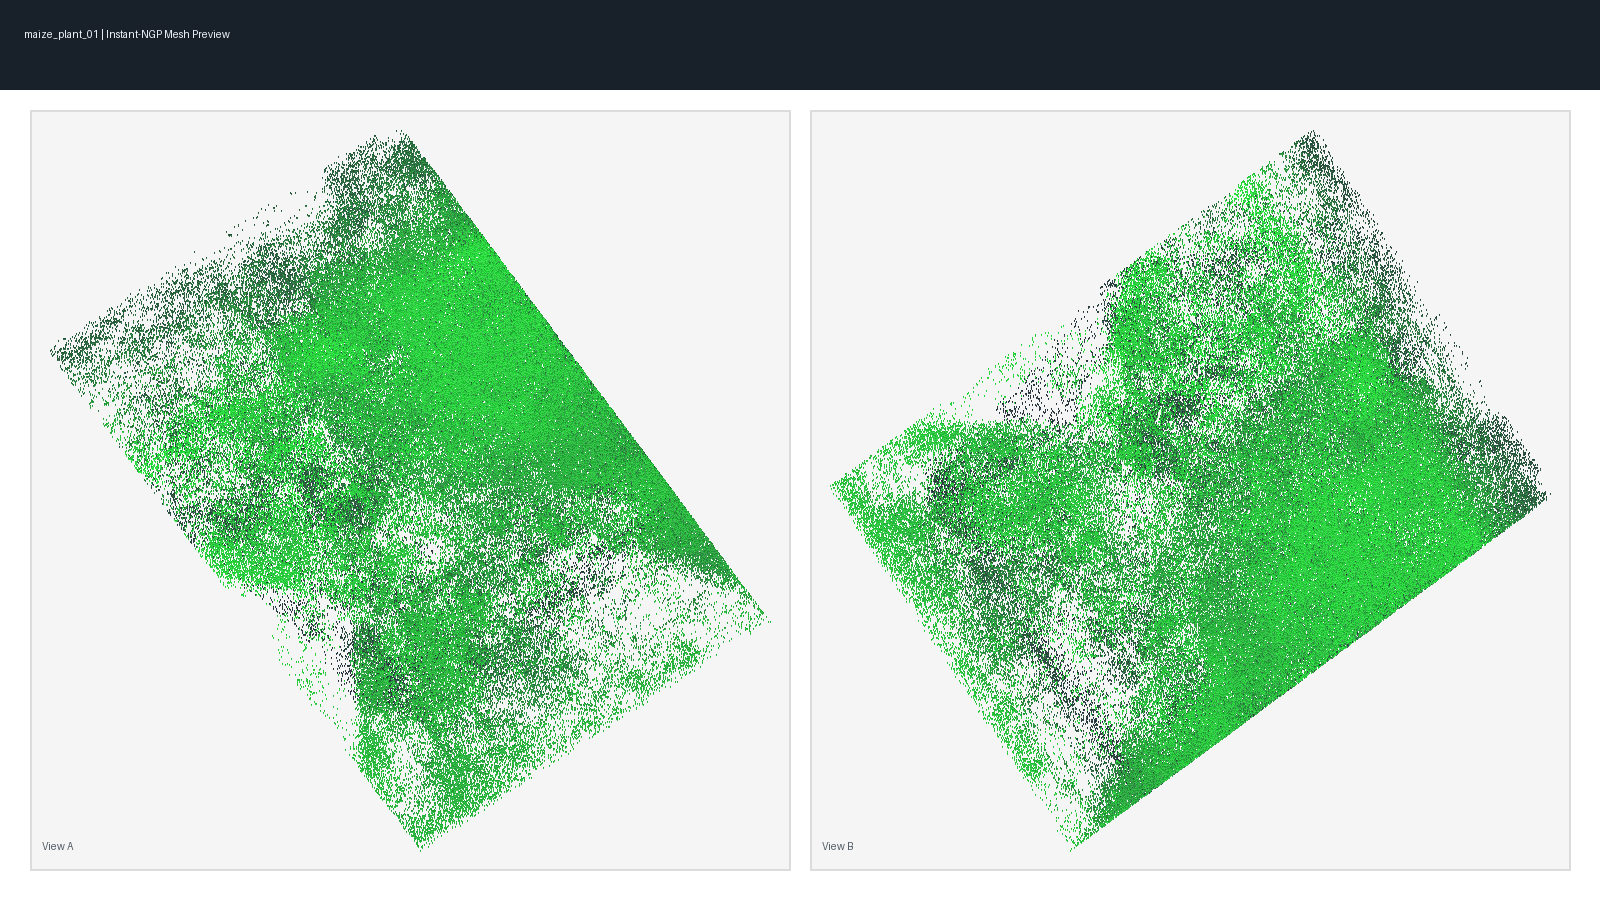
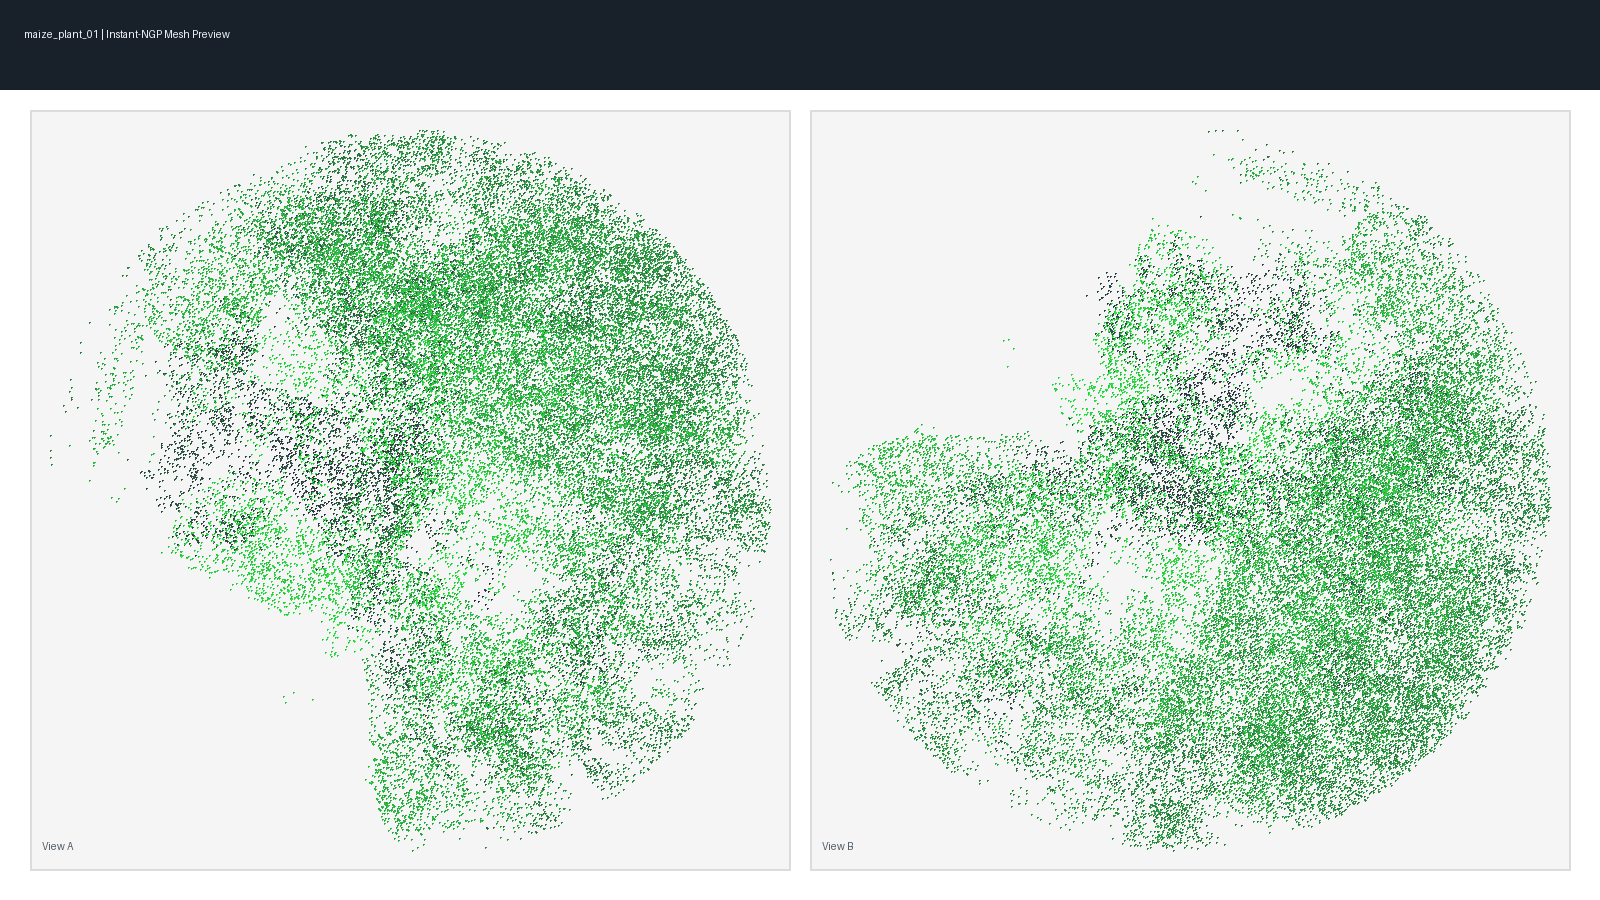
docs: improve mesh preview quality with camera-centered filtering

Changed region(s): [[0.5, 0.1556, 0.9688, 0.9333], [0.0312, 0.1556, 0.5, 0.9333]]

diff --git a/scripts/render_mesh_preview.py b/scripts/render_mesh_preview.py
@@ -3,6 +3,7 @@ from __future__ import annotations
 
 import argparse
 import math
+import json
 from pathlib import Path
 
 import numpy as np
@@ -59,6 +60,32 @@ def sample_vertices(path: Path, target_points: int) -> np.ndarray:
     return np.asarray(points, dtype=np.float32)
 
 
+def camera_center_from_transforms(path: Path) -> np.ndarray:
+    data = json.loads(path.read_text(encoding="utf-8"))
+    frames = data.get("frames", [])
+    if not isinstance(frames, list) or not frames:
+        raise ValueError("No frames found in transforms file")
+    centers = []
+    for frame in frames:
+        mat = np.asarray(frame.get("transform_matrix"), dtype=np.float32)
+        if mat.shape != (4, 4):
+            continue
+        centers.append(mat[:3, 3])
+    if not centers:
+        raise ValueError("No valid camera transforms found")
+    return np.mean(np.stack(centers, axis=0), axis=0)
+
+
+def radial_focus(points: np.ndarray, center: np.ndarray, keep_quantile: float) -> np.ndarray:
+    q = min(0.8, max(0.01, keep_quantile))
+    d = np.linalg.norm(points - center[None, :], axis=1)
+    threshold = float(np.quantile(d, q))
+    kept = points[d <= threshold]
+    if len(kept) < max(2000, len(points) // 20):
+        return points
+    return kept
+
+
 def rotation_matrix(elev_deg: float, azim_deg: float) -> np.ndarray:
     elev = math.radians(elev_deg)
     azim = math.radians(azim_deg)
@@ -112,6 +139,8 @@ def render_view(points: np.ndarray, size: tuple[int, int], elev: float, azim: fl
         canvas[yi, xi, :] = (30, shade, 50)
         if yi + 1 < h:
             canvas[yi + 1, xi, :] = (60, min(255, shade + 20), 80)
+        if xi + 1 < w:
+            canvas[yi, xi + 1, :] = (60, min(255, shade + 20), 80)
 
     return Image.fromarray(canvas, mode="RGB")
 
@@ -156,7 +185,14 @@ def main() -> int:
     parser.add_argument("--input", required=True, help="Input mesh PLY path")
     parser.add_argument("--output", required=True, help="Output preview PNG path")
     parser.add_argument("--dataset", required=True, help="Dataset id for preview title")
+    parser.add_argument("--transforms", default="", help="Optional transforms.json for camera-center-guided focus")
     parser.add_argument("--target-points", type=int, default=220000, help="Approx sampled point count")
+    parser.add_argument(
+        "--radial-keep-quantile",
+        type=float,
+        default=0.15,
+        help="Keep nearest quantile of points around camera center (requires --transforms)",
+    )
     parser.add_argument(
         "--crop-quantile",
         type=float,
@@ -171,6 +207,12 @@ def main() -> int:
         raise FileNotFoundError(f"Input mesh not found: {input_path}")
 
     points = sample_vertices(input_path, args.target_points)
+    if args.transforms:
+        transforms_path = Path(args.transforms)
+        if not transforms_path.exists():
+            raise FileNotFoundError(f"Transforms file not found: {transforms_path}")
+        center = camera_center_from_transforms(transforms_path)
+        points = radial_focus(points, center, args.radial_keep_quantile)
     points = crop_outer_shell(points, args.crop_quantile)
     compose_preview(points, output_path, args.dataset)
     print(f"[ok] preview saved to: {output_path}")

diff --git a/README.en.md b/README.en.md
@@ -30,6 +30,16 @@ Core goal: take a 360-degree plant video and produce:
 
 ![maize_plant_01 reconstruction preview](assets/results/maize_plant_01_preview.png)
 
+Regenerate preview image:
+
+```bash
+python scripts/render_mesh_preview.py \
+  --input outputs/maize_plant_01/mesh.ply \
+  --output assets/results/maize_plant_01_preview.png \
+  --dataset maize_plant_01 \
+  --transforms data/processed/maize_plant_01/transforms.json
+```
+
 ## Recommended Conda Setup
 
 Use Python 3.11:

diff --git a/README.md b/README.md
@@ -44,7 +44,8 @@
 python scripts/render_mesh_preview.py \
   --input outputs/maize_plant_01/mesh.ply \
   --output assets/results/maize_plant_01_preview.png \
-  --dataset maize_plant_01
+  --dataset maize_plant_01 \
+  --transforms data/processed/maize_plant_01/transforms.json
 ```
 
 ## 推荐环境（Conda）
